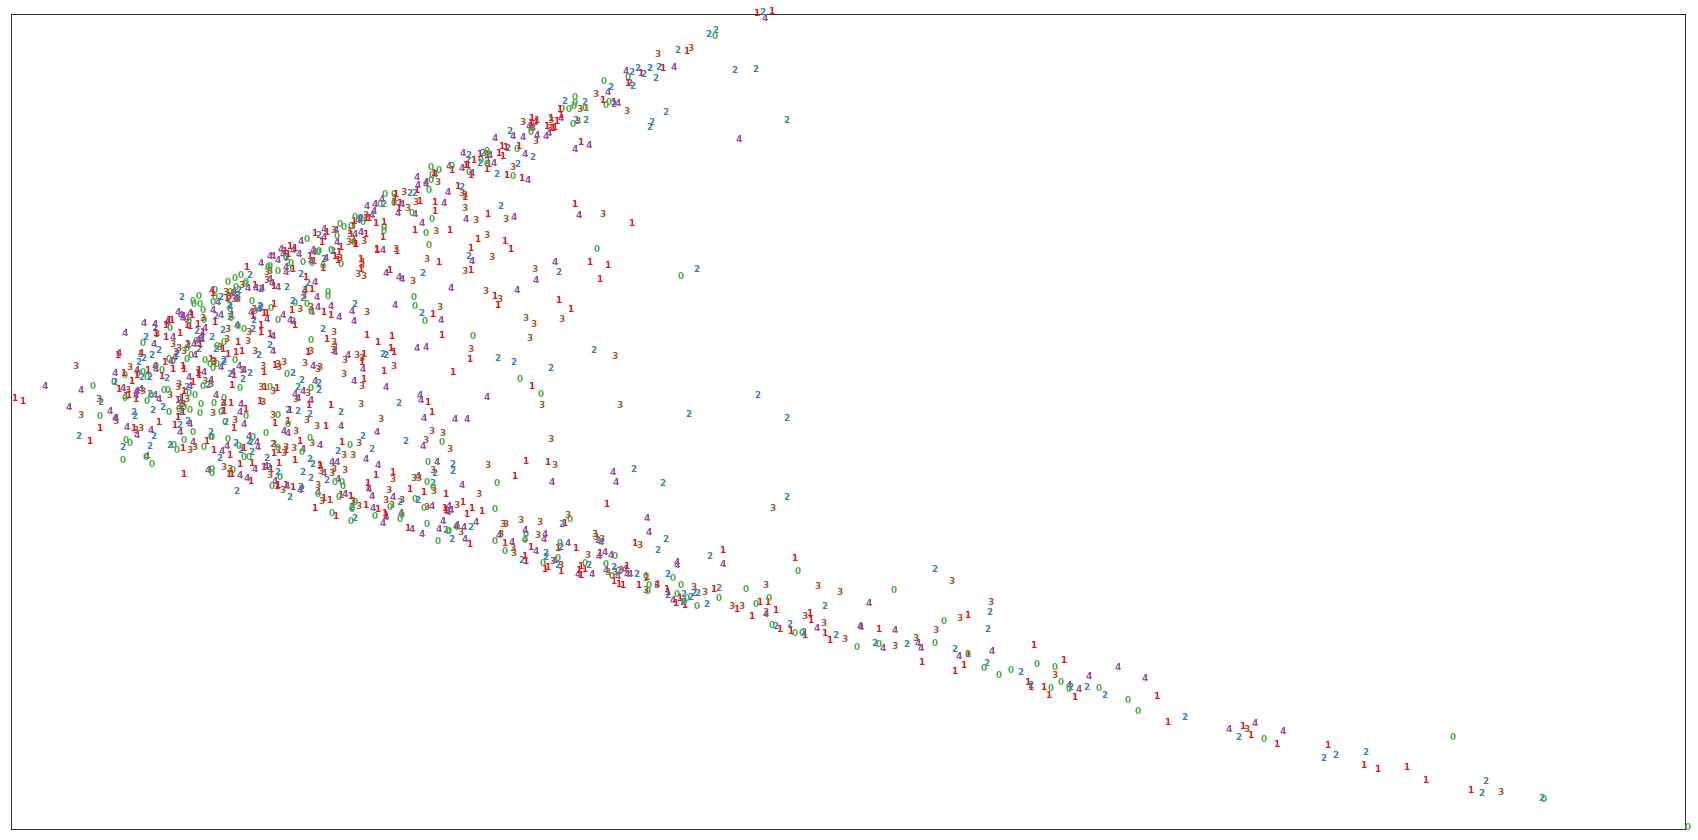
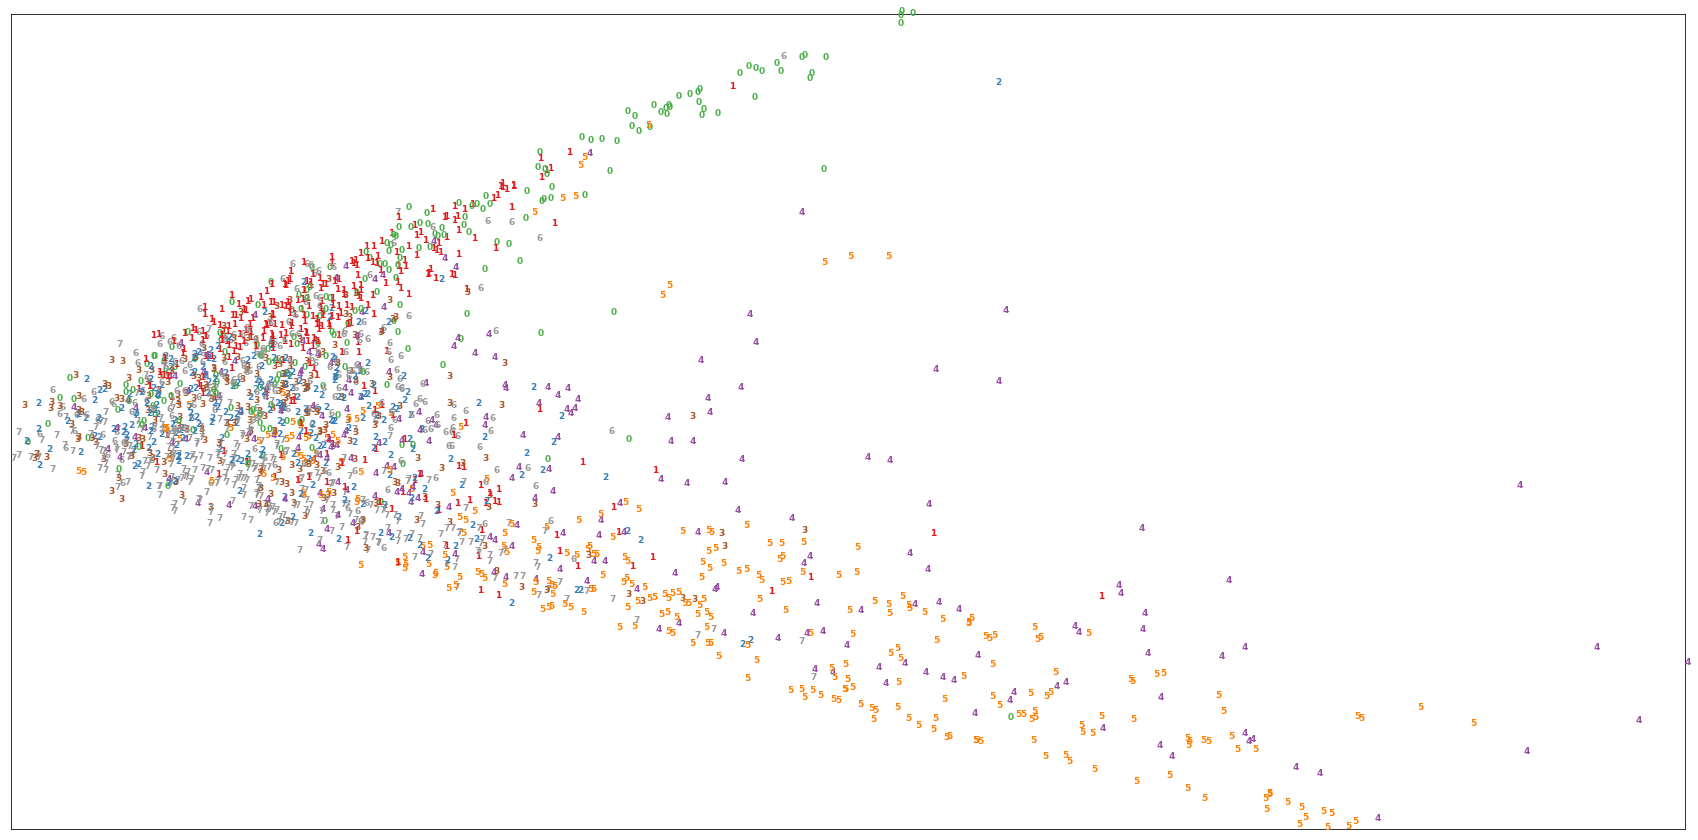
results update

diff --git a/StatisticalEvaluation/algorithm_comparison.py b/StatisticalEvaluation/algorithm_comparison.py
@@ -14,7 +14,7 @@ flowers = np.array([[0.5323325635103926, 0.5219399538106235, 0.5526011560693641,
                             [0.7066974595842956, 0.6466512702078522, 0.6878612716763006, 0.6034682080924856, 0.6445993034127975]])
 
 fashion_mnist = np.array([[0.8707142857142857, 0.8708571428571429, 0.8611, 0.8694285713604518, 0.8736428572109768],
-                            [0.8618571428571429, 0.8663571428571428, 0.8642142857142857, 0.7, 0.7],
+                            [0.8618571428571429, 0.8663571428571428, 0.8642142857142857, 0.8616428571428572, 0.8533571428571428],
                             [0.9273571428571429, 0.9329, 0.9218571428571428, 0.9287142857142857, 0.9267857142857143]])
 
 natural_images = np.array([[0.846710050657704, 0.8277858175693131, 0.841304347826087, 0.8511256354393609, 0.8474945533769063],

diff --git a/doc/main.tex b/doc/main.tex
@@ -988,6 +988,14 @@ Warto zwrócić uwagę, na bardzo zbliżoną reprezentację dla obu metod. (I tu
 	\label{fig:tSNE_modif_ReNet}
 \end{figure}
 
+\begin{figure}
+\centering
+	\includegraphics[width=1.0\textwidth]{img/tSNE_conv.png}
+	\includegraphics[width=1.0\textwidth]{img/PCA_conv.png}
+	\caption{Wizualizacja reprezentacji nauczonej przez zmodyfikowaną sieć konwolucyjną.} (Góra) Wizualizacja wyjścia przedostatniej warstwy sieci z wykorzystaniem tSNE. (Dół) Wizualizacja wyjścia przedostatniej warstwy sieci z wykorzystaniem PCA.
+	\label{fig:tSNE_conv}
+\end{figure}
+
 \section{Wizualizacja loss landscape}
 
 \begin{figure}

diff --git a/doc/tab/cross_validation.tex b/doc/tab/cross_validation.tex
@@ -6,7 +6,7 @@
   \hline
   \makecell{Flowers Recognition} & 0.538 & 0.553 & 0.657 \\
   \hline
-  \makecell{Fashion MNIST} & 0.869 & 0.798 & 0.927 \\
+  \makecell{Fashion MNIST} & 0.869 & 0.861 & 0.927 \\
   \hline
   \makecell{Natural Images} & 0.842 & 0.756 & 0.935 \\
   \hline

diff --git a/doc/tab/posthoc_table.tex b/doc/tab/posthoc_table.tex
@@ -6,7 +6,7 @@
   \hline
   \makecell{Flowers Recognition} & 0.189 & 0.001 & 0.001 \\
   \hline
-  \makecell{Fashion MNIST} & 0.036 & 0.001 & 0.000 \\
+  \makecell{Fashion MNIST} & 0.071 & 0.001 & 0.001 \\
   \hline
   \makecell{Natural Images} & 0.001 & 0.001 & 0.001 \\
   \hline

diff --git a/doc/tab/kruskal_table.tex b/doc/tab/kruskal_table.tex
@@ -6,7 +6,7 @@
   \hline
   \makecell{Flowers Recognition} & 10.220 & 0.006 \\
   \hline
-  \makecell{Fashion MNIST} & 11.2 & 0.003 \\
+  \makecell{Fashion MNIST} & 10.820 & 0.004 \\
   \hline
   \makecell{Natural Images} & 12.5 & 0.001 \\
   \hline
